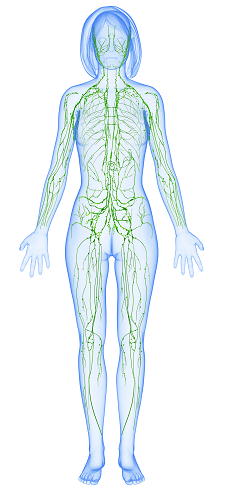
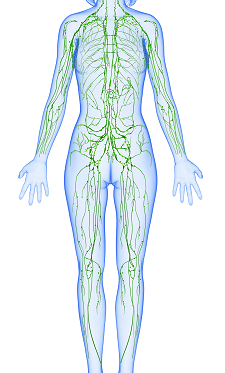
un-italicize site heading; update lymphatic system picture

Changed region(s): [[0.0622, 0.0, 0.9022, 1.0]]

diff --git a/components/navbar/index.js b/components/navbar/index.js
@@ -81,7 +81,7 @@ class Navbar extends React.Component {
           <BrandGroup position={this.props.position}>
             <Column>
               <NavTitle >
-                <em>Dynamic Lymphatics</em>
+                Dynamic Lymphatics
               </NavTitle>
               <NavSubtitle>
               Lymphatic Drainage Therapy

diff --git a/components/AppStyles.js b/components/AppStyles.js
@@ -122,7 +122,7 @@ export const Paragraph = styled.div`
       position: absolute;
       width: 300px;
       right: 0;
-      top: -180px;
+      top: -80px;
       z-index: -1;
 
       @media (max-width: 1023px) {

diff --git a/components/siteHeading/HeadingComponent.js b/components/siteHeading/HeadingComponent.js
@@ -44,7 +44,6 @@ const Brand = styled.div`
 const BrandName = styled.h1`
   font-family: ${props => props.theme.titleFont};
   font-weight: 500;
-  font-style: italic;
   font-size: 4em;
 `;
 
